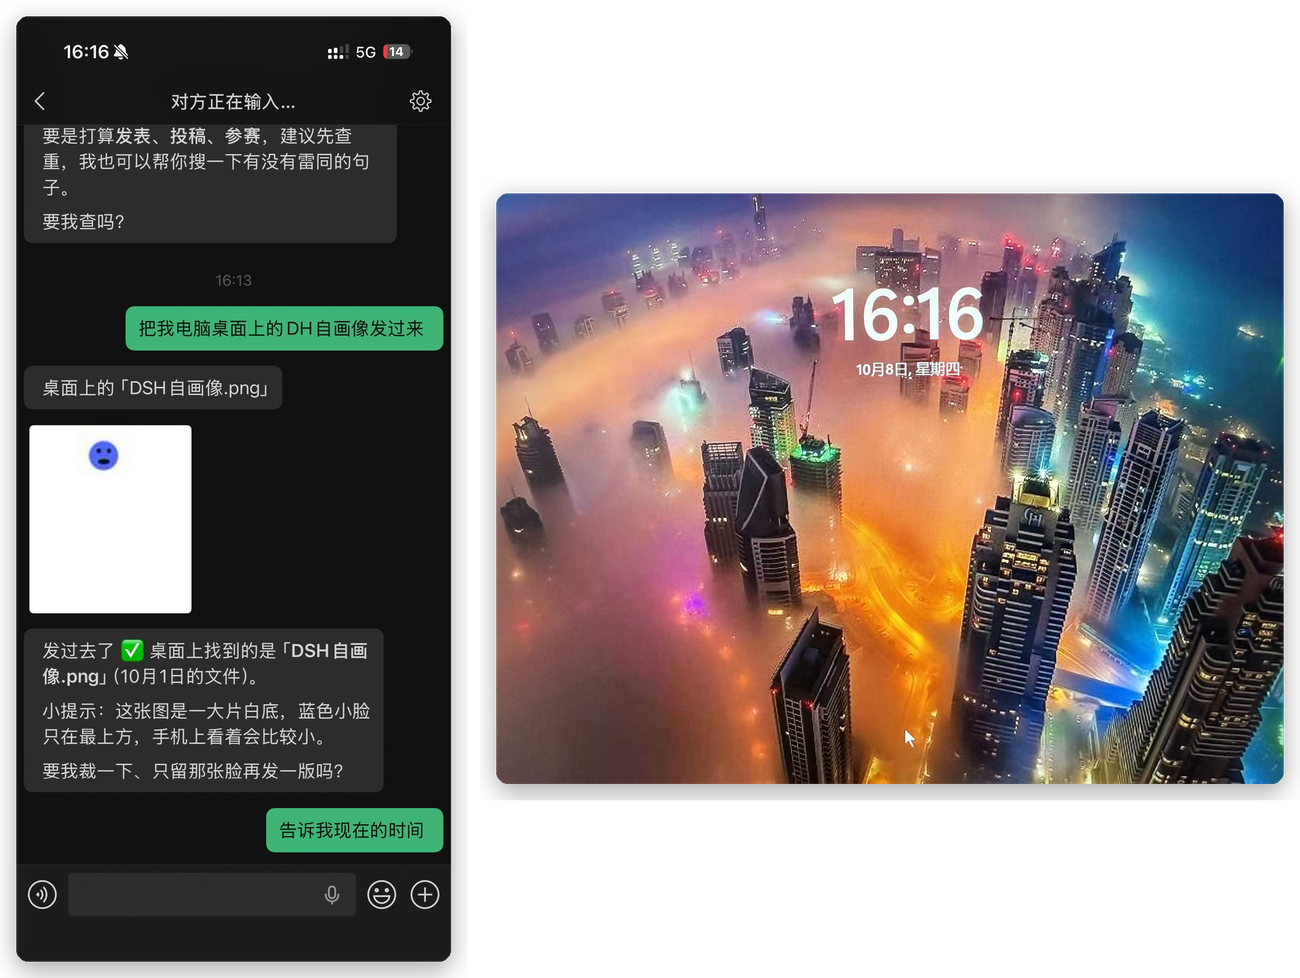
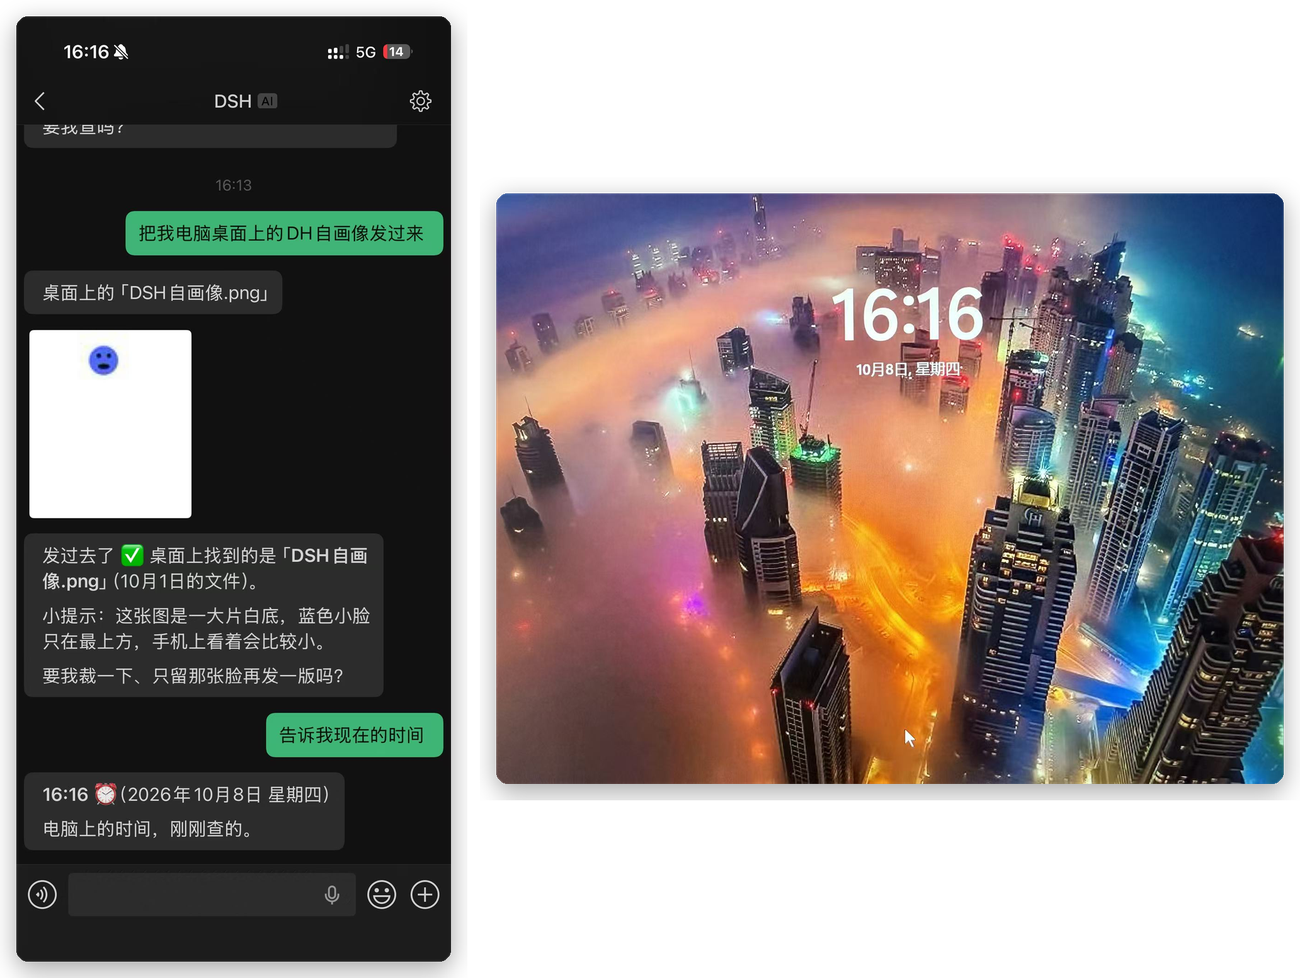
0.36.5: pair each screenshot by which copy has the message last
The same reply can appear in several screenshots at different scroll positions, and the pairing
only reads as cause and effect when the message being pointed at is the newest one — at the
bottom, under the question that produced it.

Two pairs were wrong. The locked-PC image was paired with a phone where '16:16 电脑上的时间'
sits near the top with a web-search thread under it, and with one that ends on the question
itself before the answer arrived; the phone where that reply is the last thing on screen is a
third one, and that is the pair now. The mid-game wake-up was paired with a screenshot where the
request and the reply sit mid-screen under a weather report; the one where they are adjacent and
low, which is what the notification interrupts, is now used instead.

Recorded here because it is the kind of thing that looks fine until someone compares the two
halves: both frames are real, both are from the right minute, and only one of them reads correctly.

Two pairs cannot satisfy this and keep their evidence: a file sent *from* the phone, and a voice
message, are always followed by the agent's reply, so the thing being shown can never be the last
bubble. Only one screenshot exists for each. Left as-is — the reply underneath is what proves it
was read.

Changed region(s): [[0.0, 0.5215, 0.3385, 0.8896], [0.0, 0.092, 0.3385, 0.4908]]

diff --git a/README.md b/README.md
@@ -13,11 +13,11 @@ No OpenClaw, and no public IP required.
 current as the desktop app moves on. A lot of community plugins quietly stopped working when DSH
 updated; this one is maintained alongside it, and every change is released through CI.
 
-![The phone on the left, mid-conversation at 16:16, and the locked PC on the right, also at 16:16](https://raw.githubusercontent.com/xcisxc29/dsh-wechat/main/docs/images/hero.png)
+![The phone on the left, at 16:16, reading an answer about the PC's clock, and the locked PC on the right, also at 16:16](https://raw.githubusercontent.com/xcisxc29/dsh-wechat/main/docs/images/hero.png)
 
-The screenshot above is the whole idea in one frame: the PC is **locked** at 16:16, and at 16:16 the
-phone is asking that machine for a file — WeChat shows *对方正在输入…* ("typing") in the header while
-the agent works, then a picture from the PC's desktop arrives in the chat.
+The screenshot above is the whole idea in one frame: the PC is **locked**, and the phone is still
+using it. At 16:16 the phone asks for a file on that machine's desktop and for the time on its clock —
+both come back, and the two status bars read the same minute.
 
 [中文说明](README.zh.md)
 
@@ -64,7 +64,7 @@ name, a Git URL, a tarball, or a local path.
 dsh-wechat-plugin
 ```
 
-Add a version if you need one: `dsh-wechat-plugin@0.36.4`.
+Add a version if you need one: `dsh-wechat-plugin@0.36.5`.
 </details>
 
 <details>

diff --git a/README.zh.md b/README.zh.md
@@ -10,9 +10,9 @@
 
 **能在当前的 DSH 桌面端上跑** —— 针对 DSH `0.2.0-rc.2` 开发和实测，**并会随桌面端的更新持续跟进**。不少社区插件随着 DSH 升级已经悄悄不能用了；**这个是一直维护的**，每次改动都走 CI 发布。
 
-![左边是 16:16 的手机对话，右边是同一时刻锁着屏的电脑](https://raw.githubusercontent.com/xcisxc29/dsh-wechat/main/docs/images/hero.png)
+![左边是 16:16 的手机，正在读一条关于电脑时钟的答复；右边是同一时刻锁着屏的电脑](https://raw.githubusercontent.com/xcisxc29/dsh-wechat/main/docs/images/hero.png)
 
-**上面这一张就是全部意思**：电脑在 16:16 **锁着屏**，而 16:16 那一刻手机正在向这台电脑要文件——微信顶部显示 **「对方正在输入…」** 表示 agent 正在干活，随后电脑桌面上的图片就发到了聊天里。
+**上面这一张就是全部意思**：电脑**锁着屏**，手机照样在用。16:16 那一刻，手机向这台电脑要了桌面上的一个文件、又问了它的时钟——**两样都回来了**，两块屏幕的状态栏是同一分钟。
 
 [English](README.md)
 
@@ -52,7 +52,7 @@
 dsh-wechat-plugin
 ```
 
-需要指定版本就带上：`dsh-wechat-plugin@0.36.4`。
+需要指定版本就带上：`dsh-wechat-plugin@0.36.5`。
 </details>
 
 <details>

diff --git a/docs/HANDBOOK-DEV.md b/docs/HANDBOOK-DEV.md
@@ -197,6 +197,7 @@ POST ilink/bot/getconfig  {}   →  {"ret":-2,"errmsg":"ilink_user_id required"}
 | **0.36.2** | 「帮助」分组从最下面移到最上面 | —— |
 | **0.36.3** | 修：路径比较在 Linux 上会混淆大小写不同的目录 | 见 7.6 |
 | **0.36.4** | 新增 README 配图六张（手机/锁屏/推送/文件/语音/设置） | —— |
+| **0.36.5** | 修正配图：同一句话出现在多张图时，选它是最新一条的那张 | —— |
 
 **发布节奏的转折点在 `0.33.1`**：那之前每个版本都是手动 `npm publish`（要按指纹、要等审核）；那之后打 tag 就自动发布，人不再碰 npm。
 
